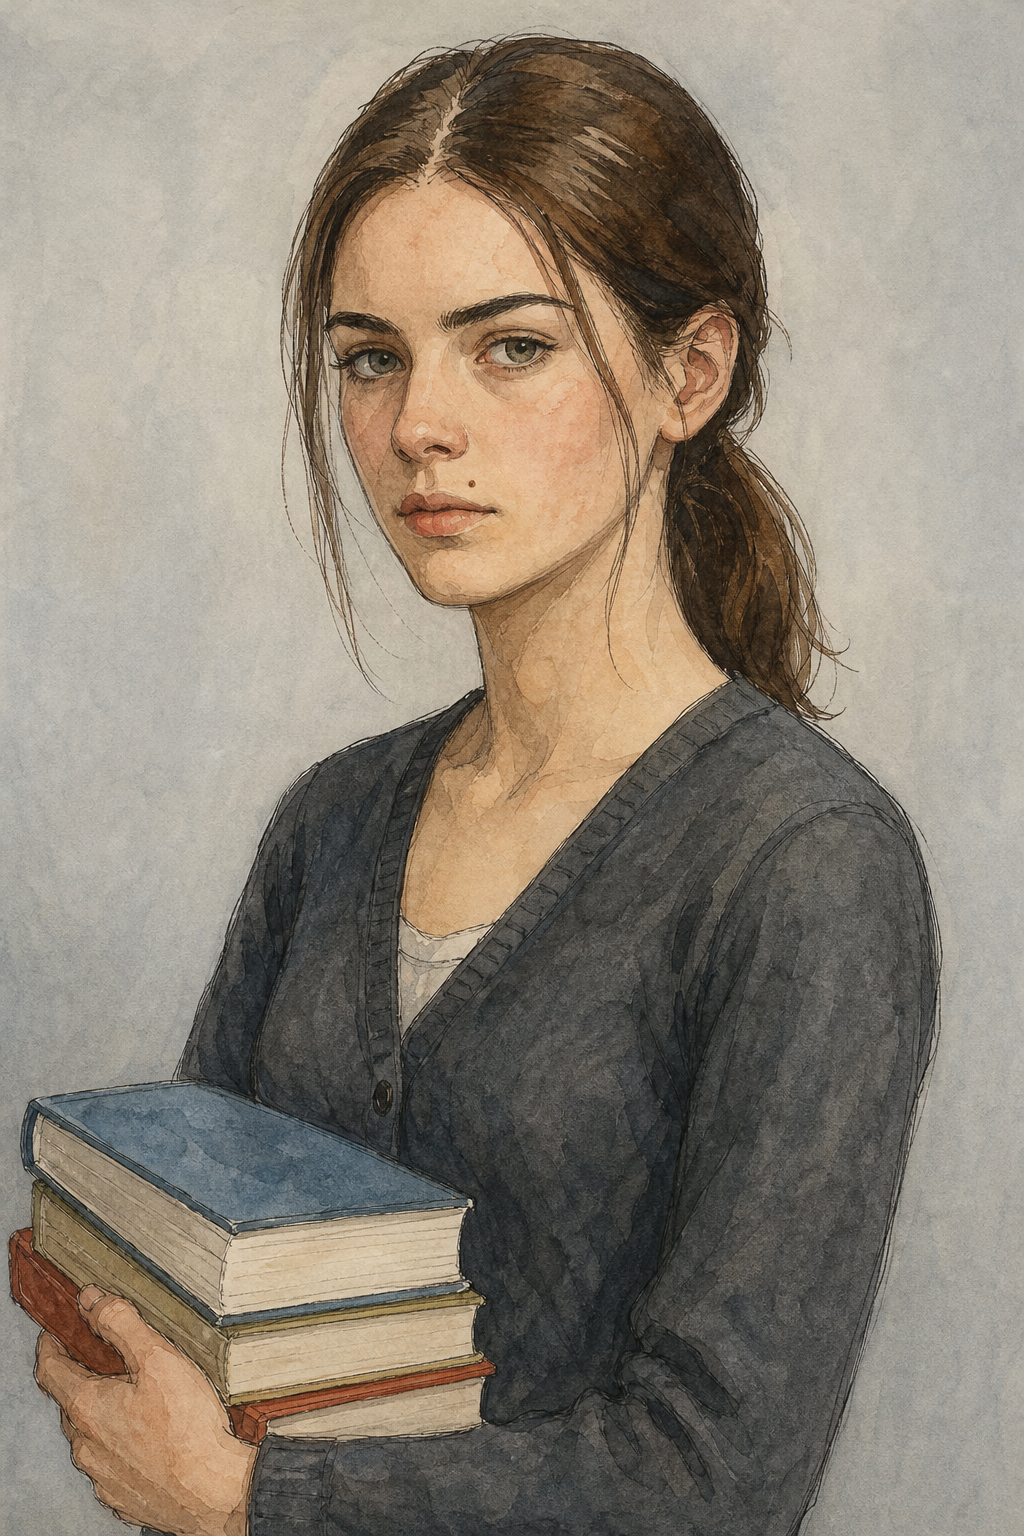
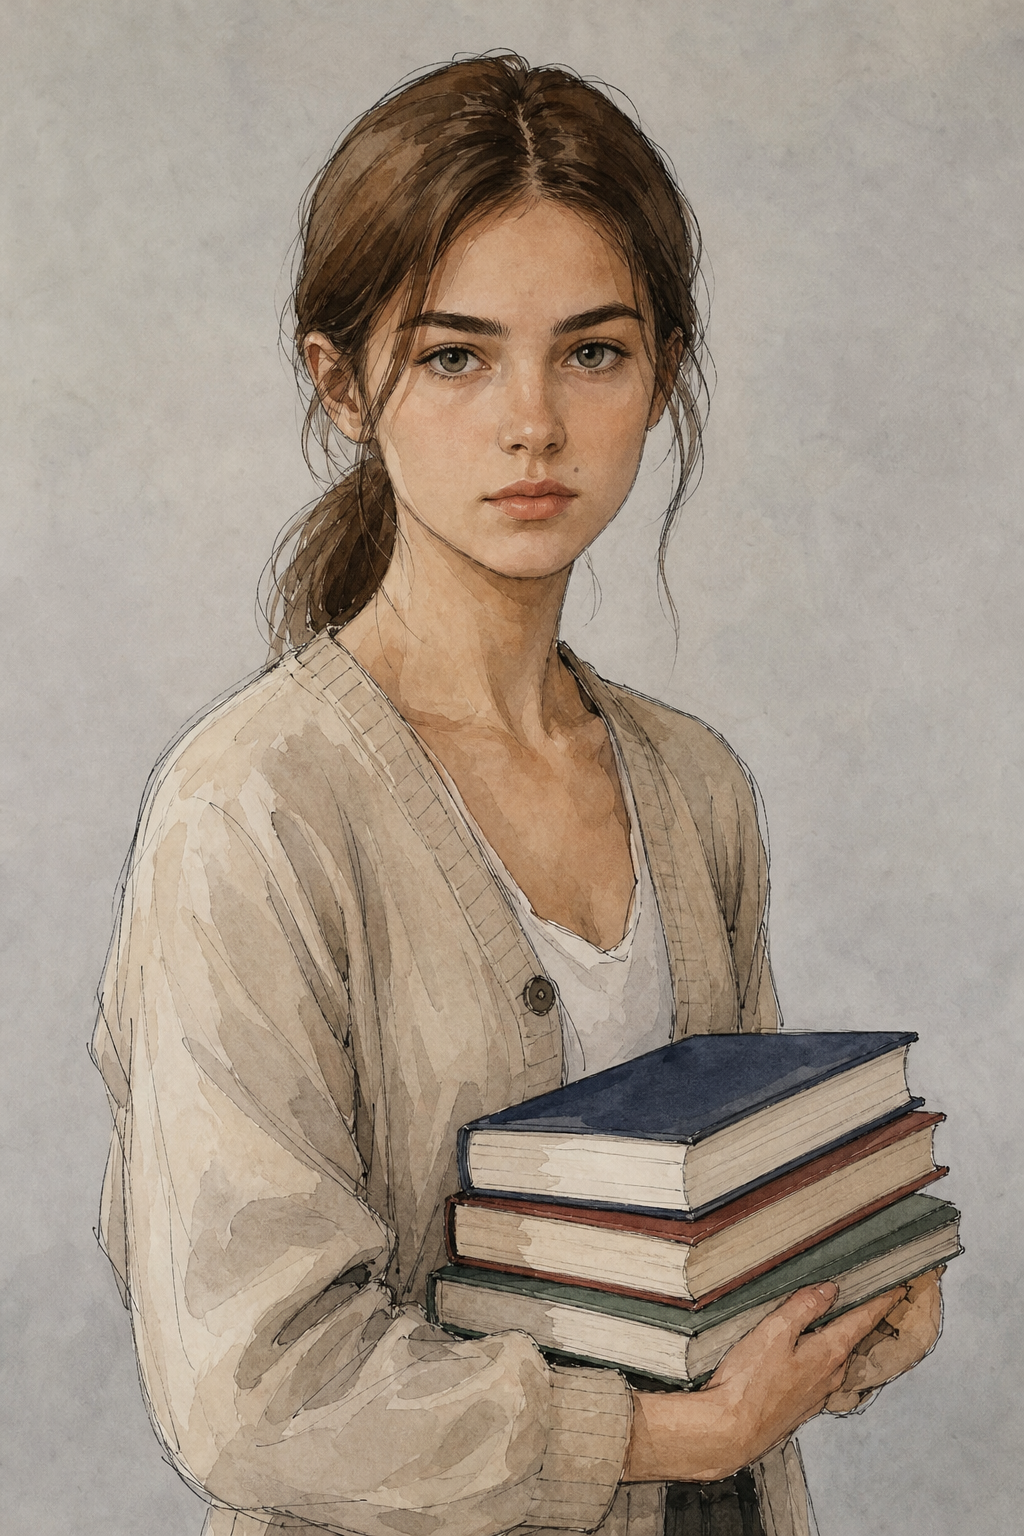
Картинки: Ника с 18 лет заметно симпатичнее (эталоны 18, 22, 56)
Claude-Session: https://claude.ai/code/session_01GzJ3u3za7BJDp7YoWv9E5b

diff --git a/tools/build_cast.py b/tools/build_cast.py
@@ -27,9 +27,9 @@ CHARS = {
         ages={
             7: ("1996", "bw", "7-year-old girl, chestnut chin-length bob under a white child's panama hat printed with cherries, simple cotton sundress, scraped knees", "a serious 7-year-old girl, chestnut bob, cherry-print panama hat"),
             13: ("2002", "color", "13-year-old girl, plain and ordinary-looking, not pretty, an awkward bony teenager with a serious strict face, chestnut hair in a low ponytail, metal braces, oversized t-shirt, a paperback book in hand", "a 13-year-old girl, chestnut ponytail, braces"),
-            18: ("2007", "digital", "18-year-old girl, plain and serious, chestnut hair to the shoulders tied back, no braces any more, simple cardigan, a stack of university entrance books", "a serious 18-year-old girl with chestnut hair tied back"),
-            22: ("2011–2014", "digital", "young woman of 22-25, chestnut pixie cut, an oversized men's jacket over her shoulders or a white lab coat, no make-up", "a young woman of about 23, short chestnut pixie cut, strict calm face"),
-            56: ("2045", "phone", "woman of 56, short-cropped grey hair, reading glasses on a thin chain, white doctor's coat, tired lines around the eyes", "a woman doctor of 56, cropped grey hair, glasses on a chain"),
+            18: ("2007", "digital", "18-year-old girl, strikingly pretty in a natural way, serious level gaze, chestnut hair to the shoulders tied back, no braces any more, simple cardigan, a stack of university entrance books", "a very pretty serious 18-year-old girl with chestnut hair tied back"),
+            22: ("2011–2014", "digital", "young woman of 22-25, very beautiful in a natural way, fine features, chestnut pixie cut, an oversized men's jacket over her shoulders or a white lab coat, no make-up", "a beautiful young woman of about 23, short chestnut pixie cut, strict calm face"),
+            56: ("2045", "phone", "woman of 56, still very attractive and elegant, fine features, short-cropped grey hair, reading glasses on a thin chain, white doctor's coat, tired lines around the eyes", "an attractive elegant woman doctor of 56, cropped grey hair, glasses on a chain"),
         }),
     "vitka": dict(
         ru="Витька", born=1988, tier="main",
@@ -323,8 +323,11 @@ def ref_prompt(cid, age):
                 "full-bleed image, no text, no watermark")
     m = marks(cid)
     must = (f" Distinctive marks that MUST be clearly visible (they stay the same at every age): {'; '.join(m)}." if m else "")
+    common = REF_COMMON
+    if re.search(r"pretty|beautiful|attractive", look):  # Ника с 18 — «сильно симпатичнее» (решение автора 06.11.2026)
+        common = common.replace("ordinary unglamorous real-life face, not a model", "natural real-life beauty, no heavy make-up")
     return (f"{look}. Permanent features: {c['core']}.{must} Drawing style: {PLACEHOLDER}. "
-            f"Medium: {REF_MEDIUM}. {REF_COMMON}")
+            f"Medium: {REF_MEDIUM}. {common}")
 
 
 def main():

diff --git a/docs/05_visual.md b/docs/05_visual.md
@@ -88,9 +88,9 @@
 |---|---|---|---|
 | 7 | 1996 | bw | 7-year-old girl, chestnut chin-length bob under a white child's panama hat printed with cherries, simple cotton sundress, scraped knees |
 | 13 | 2002 | color | 13-year-old girl, plain and ordinary-looking, not pretty, an awkward bony teenager with a serious strict face, chestnut hair in a low ponytail, metal braces, oversized t-shirt, a paperback book in hand |
-| 18 | 2007 | digital | 18-year-old girl, plain and serious, chestnut hair to the shoulders tied back, no braces any more, simple cardigan, a stack of university entrance books |
-| 22 | 2011–2014 | digital | young woman of 22-25, chestnut pixie cut, an oversized men's jacket over her shoulders or a white lab coat, no make-up |
-| 56 | 2045 | phone | woman of 56, short-cropped grey hair, reading glasses on a thin chain, white doctor's coat, tired lines around the eyes |
+| 18 | 2007 | digital | 18-year-old girl, strikingly pretty in a natural way, serious level gaze, chestnut hair to the shoulders tied back, no braces any more, simple cardigan, a stack of university entrance books |
+| 22 | 2011–2014 | digital | young woman of 22-25, very beautiful in a natural way, fine features, chestnut pixie cut, an oversized men's jacket over her shoulders or a white lab coat, no make-up |
+| 56 | 2045 | phone | woman of 56, still very attractive and elegant, fine features, short-cropped grey hair, reading glasses on a thin chain, white doctor's coat, tired lines around the eyes |
 
 ### `vitka` — Витька (1988 г. р., главный)
 - Из текста: «рыжий в крапинку», орёт громче всех (Т-01); краснеют уши (Т-06); бритый на проводах (Т-09); шахтёр (В1); поседел, белая рубаха поверх свитера (В6-08).
